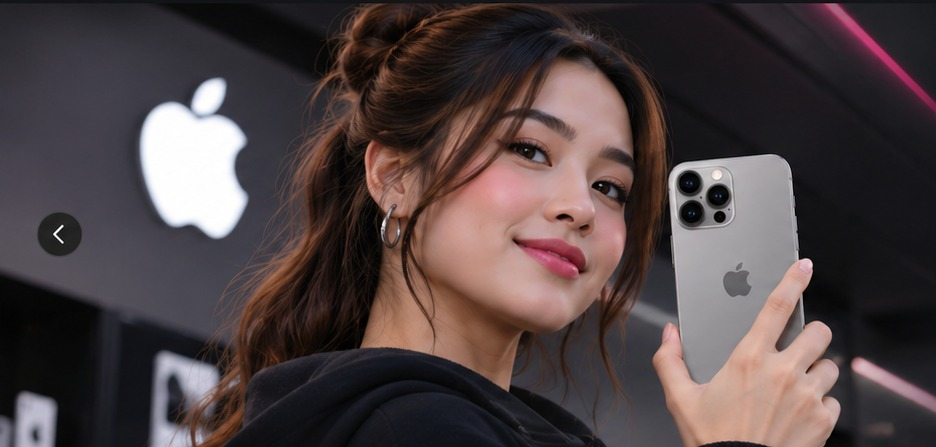
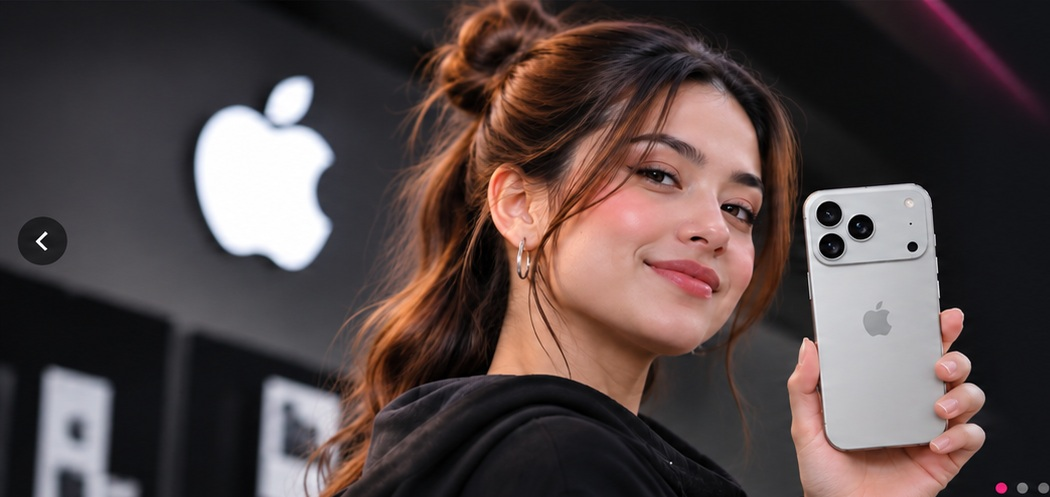
Add files via upload

diff --git a/index.html b/index.html
@@ -106,14 +106,12 @@ html{scroll-behavior:smooth}body{background:#1d1e23;color:#f1f1f4}
 #shop>.sectionhead{margin-top:12px}#shop>.sectionhead h2{display:none}#shop>.sectionhead p{margin-top:0}
 @media(max-width:1000px){.storePerks{grid-template-columns:repeat(2,1fr);row-gap:18px}.perk:nth-child(2){border-right:0}.brandShowcase{grid-template-columns:repeat(3,1fr)}}
 @media(max-width:600px){.storePerks{grid-template-columns:1fr 1fr;gap:12px}.perk{padding:7px 5px;gap:7px;justify-content:flex-start;border-right:0}.perk svg{width:25px;height:25px}.perk strong{font-size:10px;white-space:normal}.perk span{font-size:9px}.brandShowcase{grid-template-columns:repeat(3,1fr);gap:8px}.brandTile{height:65px;border-radius:12px;font-size:14px!important}.brandTile.oppo,.brandTile.vivo{font-size:22px!important}.brandTile.xiaomi small{font-size:12px}.featuredHeading h2{font-size:22px;flex-wrap:wrap;gap:4px}.featuredHeading a{font-size:11px}}
-</style></head><body><div class="top">PREMIUM SMARTPHONE COLLECTION • 35 CURATED MODELS</div><header class="nav"><div class="logo">DONE DEAL<span> PHONE & GADGETS.</span></div><nav class="navlinks"><a href="#home">Home</a><a href="#shop">Shop Phones</a><a href="#about">About</a></nav><button onclick="openCart()">Cart <span id="cartCount">(0)</span></button></header><main id="home"><section class="hero"><div class="heroInner"><div class="heroPhoto" role="img" aria-label="AI-generated promotional model holding a smartphone"></div><div class="heroCopy"><div class="eyebrow">DISCOVER YOUR NEXT UPGRADE</div><h1>Make every<br><em>moment iconic.</em></h1><p>Explore standout smartphones from Apple, Samsung, Huawei, OPPO, vivo, and Xiaomi. Find your perfect fit at Done Deal.</p><button class="btn" onclick="document.getElementById('shop').scrollIntoView({behavior:'smooth'})">Shop Smartphones →</button><p class="heroFine">AI-generated campaign image · Product availability subject to confirmation</p></div></div></section><div class="container"><section class="storePerks" aria-label="Shopping benefits">
-<div class="perk"><svg viewBox="0 0 32 32" fill="none" stroke="currentColor" stroke-width="1.5"><path d="M2 7h17v16H2zM19 12h6l5 6v5H19z"/><circle cx="8" cy="25" r="3"/><circle cx="24" cy="25" r="3"/></svg><div><strong>Fast & Reliable Shipping</strong><span>Delivery options at checkout</span></div></div>
-<div class="perk"><svg viewBox="0 0 32 32" fill="none" stroke="currentColor" stroke-width="1.5"><path d="M16 2 28 7v9c0 8-5 12-12 15C9 28 4 24 4 16V7z"/><path d="m10 16 4 4 8-9"/></svg><div><strong>Authentic Products</strong><span>Ask about warranty & condition</span></div></div>
-<div class="perk"><svg viewBox="0 0 32 32" fill="none" stroke="currentColor" stroke-width="1.5"><rect x="2" y="6" width="28" height="21" rx="3"/><path d="M2 13h28M7 21h8"/></svg><div><strong>Payment Options</strong><span>Confirm available methods</span></div></div>
-<div class="perk"><svg viewBox="0 0 32 32" fill="none" stroke="currentColor" stroke-width="1.5"><path d="M5 18v-4a11 11 0 0 1 22 0v4M5 17H3v9h7v-9H5zm22 0h2v9h-7v-9h5zM27 26c0 3-5 4-9 4"/></svg><div><strong>Responsive Support</strong><span>We're here to help</span></div></div>
-</section><div class="brandShowcase" aria-label="Shop by brand"><button onclick="selectBrand('Apple')" class="brandTile"><span class="appleGlyph">●</span><span>Apple</span></button><button onclick="selectBrand('Samsung')" class="brandTile samsung">SAMSUNG</button><button onclick="selectBrand('Huawei')" class="brandTile huawei">HUAWEI</button><button onclick="selectBrand('OPPO')" class="brandTile oppo">oppo</button><button onclick="selectBrand('vivo')" class="brandTile vivo">vivo</button><button onclick="selectBrand('Xiaomi')" class="brandTile xiaomi">mi <small>xiaomi</small></button></div>
-<div class="featuredHeading"><h2>Featured <em>Smartphones</em></h2><a href="#shop" onclick="resetBrand()">View All Products <span>→</span></a></div>
-<section id="shop"><div class="sectionhead"><div><h2>Discover your next phone.</h2><p>Browse the collection and explore standout features.</p></div><div id="resultCount" style="font-size:13px;color:#66758c"></div></div><div class="controls"><input id="search" placeholder="Search phones, brands, features…" aria-label="Search phones"><select id="sort" aria-label="Sort products"><option value="featured">Sort: Featured</option><option value="az">Name: A to Z</option><option value="brand">Brand</option></select></div><div class="brands" id="brands"></div><div class="catalog" id="catalog"></div></section></div></main><footer class="footer" id="about"><div class="container footgrid"><div><div class="logo">DONE DEAL<span> PHONE & GADGETS.</span></div><p>Done Deal Phone and Gadgets — explore premium smartphones and find your next device.</p></div><div><strong>Important information</strong><p>Product visuals are stylized illustrations, not official photographs. Prices, availability, warranty, and shipping must be configured before launch. This is a demonstration storefront; no real payments are processed.</p></div></div></footer><div class="overlay" id="cartOverlay" onclick="if(event.target===this)closeOverlay()"><aside class="drawer"><button class="close" onclick="closeOverlay()">✕</button><h2>Your shopping cart</h2><div id="cartItems"></div><h3 id="cartTotal"></h3><div class="notice">Demo checkout only. No payment gateway, stock database, or live order processing is connected.</div><button class="btn" style="width:100%;margin-top:16px" onclick="openCheckout()">Proceed to Checkout</button></aside></div><div class="overlay" id="detailOverlay" onclick="if(event.target===this)closeOverlay()"><div class="modal"><button class="close" onclick="closeOverlay()">✕</button><div id="detailBody"></div></div></div><div class="overlay" id="checkoutOverlay" onclick="if(event.target===this)closeOverlay()"><div class="modal"><button class="close" onclick="closeOverlay()">✕</button><h2>Checkout</h2><p style="color:#66758c;font-size:13px">Complete your details to generate a demo order summary.</p><form class="checkout" id="checkoutForm"><label>Full name<input name="name" required autocomplete="name"></label><label>Email<input name="email" type="email" required autocomplete="email"></label><label>Mobile number<input name="phone" required autocomplete="tel"></label><label>Delivery address<input name="address" required autocomplete="street-address"></label><label>Preferred payment method<select name="payment"><option>Cash on delivery (not activated)</option><option>Bank transfer (not activated)</option><option>Online payment (not activated)</option></select></label><div class="notice">Submitting creates a local demo confirmation only. It does not place an actual order or collect payment.</div><button class="btn" style="width:100%;margin-top:16px" type="submit">Generate Demo Order</button></form><div id="orderConfirmation"></div></div></div><script>
+
+/* Approved campaign layout */
+.top{display:none}.nav{height:73px;background:#15161a;position:sticky;top:0;padding:0 max(4%,calc((100vw - 1700px)/2));border-bottom:1px solid #37373d}.logo{font-size:21px}.navlinks{font-size:15px;gap:42px}.nav button{border-radius:12px;padding:13px 25px}.hero{background:#111216!important}.heroInner{max-width:none;min-height:495px;display:grid;grid-template-columns:52% 48%;padding:0}.heroPhoto{background-image:linear-gradient(90deg,transparent 85%,#111216 100%),url('hero-model.jpg');background-size:cover;background-position:center center;min-height:495px}.heroCopy{padding:40px clamp(30px,4vw,85px) 35px 18px}.heroCopy h1{font-size:clamp(40px,4.1vw,72px);letter-spacing:-2px;line-height:1.1;margin:18px 0 8px;white-space:nowrap}.appleTitle{font-size:.8em}.heroCopy h2{font-size:clamp(23px,2.2vw,38px);font-weight:500;letter-spacing:-1.2px;margin:0 0 18px;line-height:1.2}.heroCopy h2 em{font-style:normal;color:#f13788;font-weight:800}.heroCopy p{font-size:14px;line-height:1.7;max-width:600px}.heroFeatures{display:flex;gap:0;margin:25px 0 29px}.heroFeatures span{flex:1;padding:5px 12px;border-right:1px solid #55545c;font-size:12px;line-height:1.35;font-weight:700}.heroFeatures span:first-child{padding-left:0}.heroFeatures span:last-child{border:0}.hero .btn{padding:16px 31px;border-radius:18px}.heroFine{font-size:10px!important;color:#9999a5!important;margin-top:15px}.brandBar{background:#141519;border-block:1px solid #36373c;display:grid;grid-template-columns:repeat(6,minmax(0,1fr));padding:0 max(4%,calc((100vw - 1700px)/2))}.brandBar .brandTile{border:0;border-right:1px solid #3d3e44;border-radius:0;background:transparent;height:85px;box-shadow:none;font-size:22px;white-space:nowrap}.brandBar .brandTile:last-child{border-right:0}.brandBar .brandTile:hover{transform:none;background:#24242b}.brandBar .appleGlyph{font-size:29px}.brandBar .huaweiMark{color:#f2374d;font-size:31px}.brandBar .miMark{display:inline-grid;place-items:center;background:#ff6900;border-radius:10px;width:34px;height:34px;font-size:20px}.brandBar .oppo{color:#13b75d;font-size:34px}.brandBar .vivo{color:#526bff;font-size:34px}.storePerks{padding:24px 0 18px}.perkIcon{font-size:30px;line-height:1;color:#fff}.featuredHeading{padding:24px 0 12px}.featuredHeading h2:before{display:none}.container{max-width:1450px}
+@media(max-width:1050px){.heroInner{grid-template-columns:50% 50%}.heroCopy h1{font-size:clamp(32px,4vw,50px)}.heroFeatures{flex-wrap:wrap;gap:10px}.heroFeatures span{flex:1 1 42%;border:0;padding:0}.brandBar .brandTile{font-size:17px;height:70px}.brandBar .oppo,.brandBar .vivo{font-size:25px}}
+@media(max-width:700px){.heroInner{display:flex;flex-direction:column}.heroPhoto{width:100%;min-height:290px;background-position:center center;background-image:linear-gradient(0deg,#111216,transparent 35%),url('hero-model.jpg')}.heroCopy{padding:8px 22px 35px}.heroCopy h1{font-size:clamp(32px,8vw,48px)}.heroCopy h2{font-size:25px}.heroFeatures{margin:20px 0}.brandBar{grid-template-columns:repeat(3,minmax(0,1fr));padding:0 8px}.brandBar .brandTile{height:63px;font-size:15px;border-bottom:1px solid #333}.brandBar .oppo,.brandBar .vivo{font-size:24px}.brandBar .huaweiMark{font-size:20px}.brandBar .miMark{width:25px;height:25px;font-size:14px}.storePerks{grid-template-columns:1fr 1fr}.featuredHeading{gap:8px}.featuredHeading h2{font-size:22px}}
+</style></head><body><div class="top">PREMIUM SMARTPHONE COLLECTION • 35 CURATED MODELS</div><header class="nav"><div class="logo">DONE DEAL<span> PHONE & GADGETS.</span></div><nav class="navlinks"><a href="#home">Home</a><a href="#shop">Shop Phones</a><a href="#about">About</a></nav><button onclick="openCart()">Cart <span id="cartCount">(0)</span></button></header><main id="home"><section class="hero"><div class="heroInner"><div class="heroPhoto" role="img" aria-label="Promotional model holding a silver smartphone"></div><div class="heroCopy"><div class="eyebrow">LATEST FROM APPLE</div><h1><span class="appleTitle">●</span> iPhone 18 Pro</h1><h2>Pro power. <em>A new level ahead.</em></h2><p>Discover premium smartphones, advanced cameras and powerful performance at Done Deal Phone & Gadgets.</p><div class="heroFeatures"><span>◎ &nbsp; Pro Camera System</span><span>▦ &nbsp; Next-Gen Performance</span><span>▣ &nbsp; All-Day Battery Life</span></div><button class="btn" onclick="selectBrand('Apple')">Shop Apple Phones →</button><p class="heroFine">Concept promotional image · Confirm model specifications and availability before purchase</p></div></div></section><div class="brandBar" aria-label="Shop by brand"><button onclick="selectBrand('Apple')" class="brandTile apple"><span class="appleGlyph">●</span> Apple</button><button onclick="selectBrand('Samsung')" class="brandTile samsung">SAMSUNG</button><button onclick="selectBrand('Huawei')" class="brandTile huawei"><span class="huaweiMark">✿</span> HUAWEI</button><button onclick="selectBrand('Xiaomi')" class="brandTile xiaomi"><span class="miMark">mi</span> Xiaomi</button><button onclick="selectBrand('OPPO')" class="brandTile oppo">oppo</button><button onclick="selectBrand('vivo')" class="brandTile vivo">vivo</button></div><div class="container"><section class="storePerks" aria-label="Shopping benefits"><div class="perk"><span class="perkIcon">♧</span><div><strong>Fast & Reliable Shipping</strong><span>Delivery options at checkout</span></div></div><div class="perk"><span class="perkIcon">♢</span><div><strong>Authentic Products</strong><span>Ask about warranty & condition</span></div></div><div class="perk"><span class="perkIcon">▤</span><div><strong>Payment Options</strong><span>Confirm available methods</span></div></div><div class="perk"><span class="perkIcon">♧</span><div><strong>Responsive Support</strong><span>We're here to help</span></div></div></section><div class="featuredHeading"><h2>Featured <em>Smartphones</em></h2><a href="#shop" onclick="resetBrand()">View All Products →</a></div><section id="shop"><div class="sectionhead"><div><h2>Discover your next phone.</h2><p>Browse the collection and explore standout features.</p></div><div id="resultCount" style="font-size:13px;color:#66758c"></div></div><div class="controls"><input id="search" placeholder="Search phones, brands, features…" aria-label="Search phones"><select id="sort" aria-label="Sort products"><option value="featured">Sort: Featured</option><option value="az">Name: A to Z</option><option value="brand">Brand</option></select></div><div class="brands" id="brands"></div><div class="catalog" id="catalog"></div></section></div></main><footer class="footer" id="about"><div class="container footgrid"><div><div class="logo">DONE DEAL<span> PHONE & GADGETS.</span></div><p>Done Deal Phone and Gadgets — explore premium smartphones and find your next device.</p></div><div><strong>Important information</strong><p>Product visuals are stylized illustrations, not official photographs. Prices, availability, warranty, and shipping must be configured before launch. This is a demonstration storefront; no real payments are processed.</p></div></div></footer><div class="overlay" id="cartOverlay" onclick="if(event.target===this)closeOverlay()"><aside class="drawer"><button class="close" onclick="closeOverlay()">✕</button><h2>Your shopping cart</h2><div id="cartItems"></div><h3 id="cartTotal"></h3><div class="notice">Demo checkout only. No payment gateway, stock database, or live order processing is connected.</div><button class="btn" style="width:100%;margin-top:16px" onclick="openCheckout()">Proceed to Checkout</button></aside></div><div class="overlay" id="detailOverlay" onclick="if(event.target===this)closeOverlay()"><div class="modal"><button class="close" onclick="closeOverlay()">✕</button><div id="detailBody"></div></div></div><div class="overlay" id="checkoutOverlay" onclick="if(event.target===this)closeOverlay()"><div class="modal"><button class="close" onclick="closeOverlay()">✕</button><h2>Checkout</h2><p style="color:#66758c;font-size:13px">Complete your details to generate a demo order summary.</p><form class="checkout" id="checkoutForm"><label>Full name<input name="name" required autocomplete="name"></label><label>Email<input name="email" type="email" required autocomplete="email"></label><label>Mobile number<input name="phone" required autocomplete="tel"></label><label>Delivery address<input name="address" required autocomplete="street-address"></label><label>Preferred payment method<select name="payment"><option>Cash on delivery (not activated)</option><option>Bank transfer (not activated)</option><option>Online payment (not activated)</option></select></label><div class="notice">Submitting creates a local demo confirmation only. It does not place an actual order or collect payment.</div><button class="btn" style="width:100%;margin-top:16px" type="submit">Generate Demo Order</button></form><div id="orderConfirmation"></div></div></div><script>
 function selectBrand(brand){document.getElementById('shop').scrollIntoView({behavior:'smooth'});const buttons=[...document.querySelectorAll('#brands button')];const match=buttons.find(b=>b.textContent.trim().toLowerCase()===brand.toLowerCase());if(match)match.click();}
 function resetBrand(){const buttons=[...document.querySelectorAll('#brands button')];const match=buttons.find(b=>/all/i.test(b.textContent));if(match)match.click();}
 </script><script src="app.js"></script></body></html>
